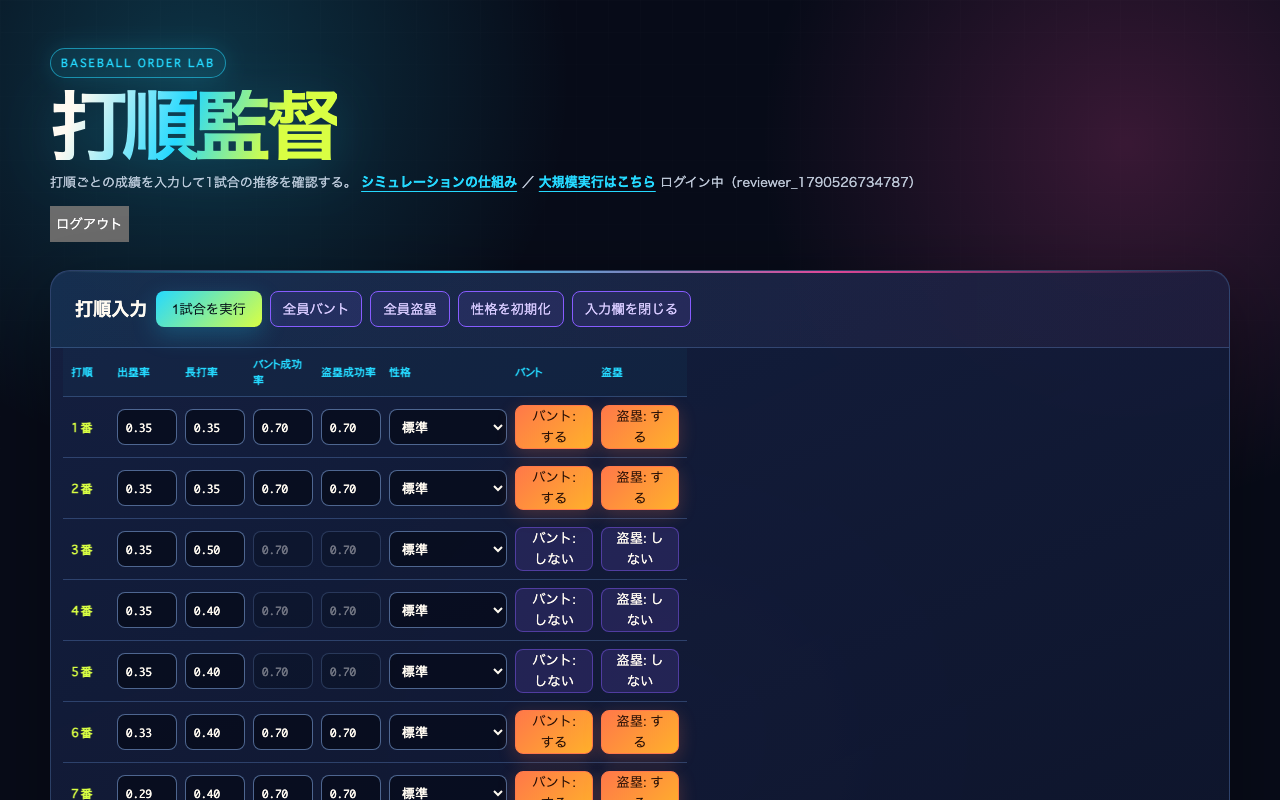
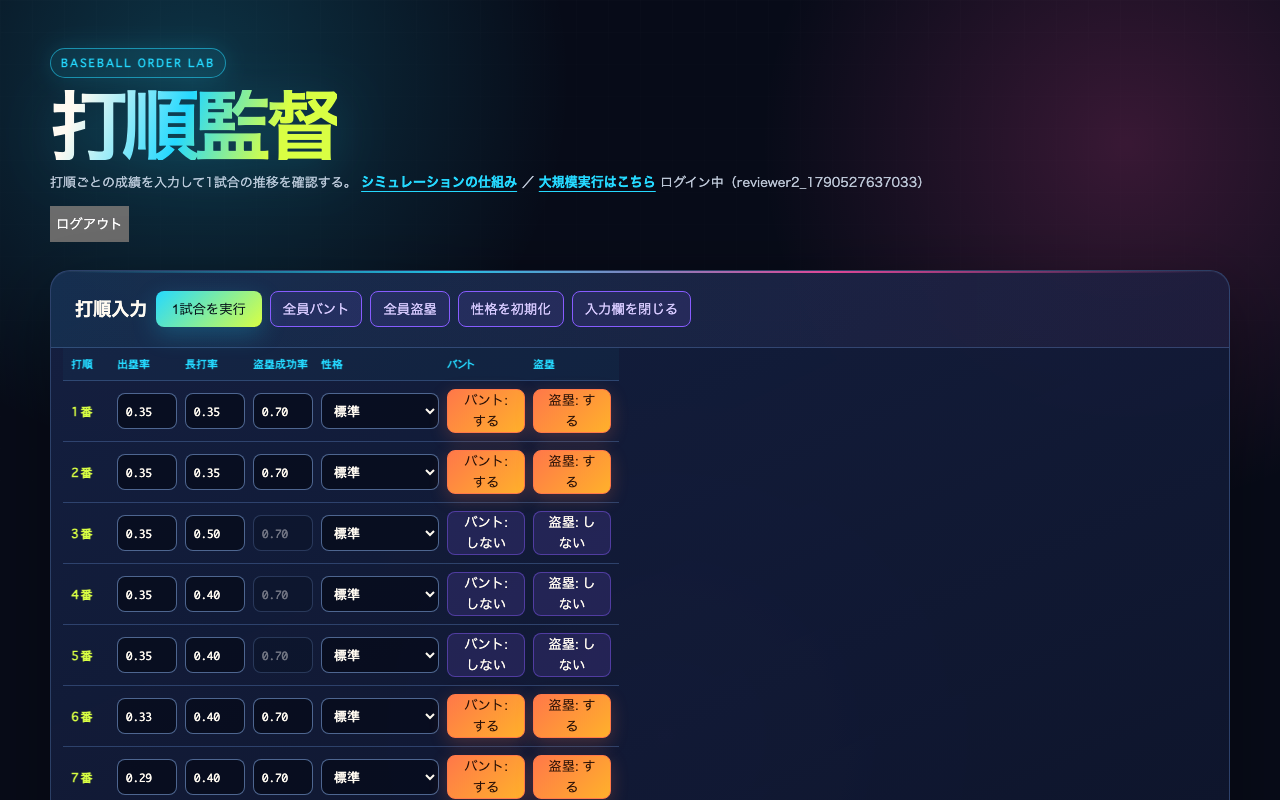
fix: 1試合実行画面のスマホ表示を縦一列カードにしバント成功率入力を削除
single-game.htmlのみを対象に、打順入力カードのスマホ表示を2列グリッドから
縦一列(grid-template-columns: 1fr)に変更し、9人の打者が上から下へ真っ直ぐ
並ぶようにした。またバント成功率の入力欄自体を削除し(バントを使うか否かの
トグルボタンは維持)、既定値0.70を編集不可のままAPIへ送信するようにした。
simulation.html側は変更していない。

Changed region(s): [[0.0625, 0.4375, 0.5312, 1.0], [0.625, 0.2188, 0.7188, 0.25]]

diff --git a/apps/backend/infrastructure/src/main/resources/templates/single-game.html b/apps/backend/infrastructure/src/main/resources/templates/single-game.html
@@ -167,7 +167,7 @@
 
         .columns, .slot {
             display: grid;
-            grid-template-columns:38px repeat(4, 60px) 118px 78px 78px;
+            grid-template-columns:38px repeat(3, 60px) 118px 78px 78px;
             gap: var(--space-xs);
             align-items: center;
             padding: var(--space-xs);
@@ -478,7 +478,7 @@
 
             .slot {
                 display: grid;
-                grid-template-columns: repeat(2, 1fr);
+                grid-template-columns: 1fr;
                 gap: var(--space-sm);
                 padding: var(--space-md);
                 border: 1px solid var(--line);
@@ -487,7 +487,6 @@
             }
 
             .slot .slot-index {
-                grid-column: 1 / -1;
                 font-size: 14px;
             }
 
@@ -495,10 +494,6 @@
                 display: flex;
                 flex-direction: column;
                 gap: 4px;
-            }
-
-            .field-personality {
-                grid-column: 1 / -1;
             }
 
             .field-caption {
@@ -534,7 +529,7 @@
                 <div class="order-scroll">
                     <div class="order">
                         <div class="columns">
-                            <span>打順</span><span>出塁率</span><span>長打率</span><span>バント成功率</span><span>盗塁成功率</span><span>性格</span><span>バント</span><span>盗塁</span>
+                            <span>打順</span><span>出塁率</span><span>長打率</span><span>盗塁成功率</span><span>性格</span><span>バント</span><span>盗塁</span>
                         </div>
                         <div id="order"></div>
                     </div>
@@ -575,16 +570,16 @@
     const order = document.querySelector('#order'), submit = document.querySelector('#submit'), feedback = document.querySelector('#feedback'), toggleAllBunt = document.querySelector('#toggle-all-bunt'), toggleAllSteal = document.querySelector('#toggle-all-steal'), resetAllPersonalities = document.querySelector('#reset-all-personalities'), toggleLineup = document.querySelector('#toggle-lineup'), lineupBody = document.querySelector('#lineup-body'), frameStage = document.querySelector('#frame-stage'), orderTableScroll = document.querySelector('#order-table-scroll');
     const frameDurationMillis = Number(frameStage.dataset.frameDurationMillis) || 1000;
     let frameTimer = null;
-    const ranges = {hitAverage:[0.01,0.6], sluggish:[0.1,0.6], buntSuccessRate:[0,Infinity], stealSuccessRate:[0.1,Infinity]};
+    const ranges = {hitAverage:[0.01,0.6], sluggish:[0.1,0.6], stealSuccessRate:[0.1,Infinity]};
     function valid(player) { return Object.values(player).every(value => value !== '') && Object.entries(ranges).every(([key,[min,max]]) => Number(player[key]) >= min && Number(player[key]) <= max); }
     function validLineup() { return lineup.every(valid); }
-    const fields = [{key:'hitAverage',label:'出塁率',min:0.01,max:0.6},{key:'sluggish',label:'長打率',min:0.1,max:0.6},{key:'buntSuccessRate',label:'バント成功率',min:0,enabledKey:'buntEnabled'},{key:'stealSuccessRate',label:'盗塁成功率',min:0.1,enabledKey:'stealEnabled'}];
+    const fields = [{key:'hitAverage',label:'出塁率',min:0.01,max:0.6},{key:'sluggish',label:'長打率',min:0.1,max:0.6},{key:'stealSuccessRate',label:'盗塁成功率',min:0.1,enabledKey:'stealEnabled'}];
     function toggle(label, enabled, onClick) { const button=document.createElement('button'); button.type='button'; button.className='bunt-toggle'; button.disabled=inFlight; button.textContent=`${label}: ${enabled?'する':'しない'}`; button.setAttribute('aria-pressed',String(enabled)); button.addEventListener('click',onClick); return button; }
     function formatPercentage(value) { return value === '' ? value : Number(value).toFixed(2); }
     const personalityLabels = {DEFAULT:'標準',EAGER_SLUGGISH:'長距離砲',EAGER_STEAL:'盗塁重視',EAGER_BUNT:'バント重視'};
     function fieldWrapper(caption, control, extraClass) { const wrapper=document.createElement('label'); wrapper.className=extraClass ? `field ${extraClass}` : 'field'; const label=document.createElement('span'); label.className='eyebrow field-caption'; label.textContent=caption; wrapper.append(label, control); return wrapper; }
     function personalitySelect(player) { const select=document.createElement('select'); select.disabled=inFlight; Object.entries(personalityLabels).forEach(([value,label])=>{const option=document.createElement('option');option.value=value;option.textContent=label;option.selected=player.personality===value;select.append(option);}); select.addEventListener('change',()=>{player.personality=select.value;}); return select; }
-    function render() { order.replaceChildren(); lineup.forEach((player,index) => { const row=document.createElement('div'); row.className='slot'; const position=document.createElement('span'); position.className='slot-index'; position.textContent=`${index+1}番`; row.append(position); fields.forEach(field => { const input=document.createElement('input'); input.type='number'; input.required=true; input.min=String(field.min); if (field.max !== undefined) input.max=String(field.max); input.step='0.01'; input.value=player[field.key]; input.disabled=inFlight || (field.enabledKey && !player[field.enabledKey]); input.addEventListener('input',()=>{const value=input.value.startsWith('.') ? `0${input.value}` : input.value;input.value=value;player[field.key]=value;update();}); input.addEventListener('change',()=>{const value=formatPercentage(input.value);input.value=value;player[field.key]=value;update();}); row.append(fieldWrapper(field.label, input)); }); row.append(fieldWrapper('性格', personalitySelect(player), 'field-personality'),toggle('バント',player.buntEnabled,()=>{player.buntEnabled=!player.buntEnabled; render();}),toggle('盗塁',player.stealEnabled,()=>{player.stealEnabled=!player.stealEnabled; render();})); order.append(row); }); update(); }
+    function render() { order.replaceChildren(); lineup.forEach((player,index) => { const row=document.createElement('div'); row.className='slot'; const position=document.createElement('span'); position.className='slot-index'; position.textContent=`${index+1}番`; row.append(position); fields.forEach(field => { const input=document.createElement('input'); input.type='number'; input.required=true; input.min=String(field.min); if (field.max !== undefined) input.max=String(field.max); input.step='0.01'; input.value=player[field.key]; input.disabled=inFlight || (field.enabledKey && !player[field.enabledKey]); input.addEventListener('input',()=>{const value=input.value.startsWith('.') ? `0${input.value}` : input.value;input.value=value;player[field.key]=value;update();}); input.addEventListener('change',()=>{const value=formatPercentage(input.value);input.value=value;player[field.key]=value;update();}); row.append(fieldWrapper(field.label, input)); }); row.append(fieldWrapper('性格', personalitySelect(player)),toggle('バント',player.buntEnabled,()=>{player.buntEnabled=!player.buntEnabled; render();}),toggle('盗塁',player.stealEnabled,()=>{player.stealEnabled=!player.stealEnabled; render();})); order.append(row); }); update(); }
     function update() { const complete=validLineup(); const allBuntEnabled=lineup.every(player=>player.buntEnabled); const allStealEnabled=lineup.every(player=>player.stealEnabled); submit.disabled=inFlight || !complete || lineupBody.hidden; toggleAllBunt.disabled=inFlight; toggleAllBunt.setAttribute('aria-pressed',String(allBuntEnabled)); toggleAllSteal.disabled=inFlight; toggleAllSteal.setAttribute('aria-pressed',String(allStealEnabled)); resetAllPersonalities.disabled=inFlight; toggleLineup.disabled=inFlight; if (!inFlight) { feedback.className=''; feedback.textContent=lineupBody.hidden?'打順入力を開くと再実行できます。':complete?'準備完了。1試合を実行できます。':'出塁率は0.01〜0.6、長打率は0.1〜0.6の範囲ですべての項目を入力してください。'; } }
     function setLineupCollapsed(collapsed) { lineupBody.hidden=collapsed; toggleLineup.setAttribute('aria-expanded',String(!collapsed)); toggleLineup.textContent=collapsed?'打順入力を開く':'入力欄を閉じる'; update(); }
     toggleLineup.addEventListener('click',()=>setLineupCollapsed(!lineupBody.hidden));
